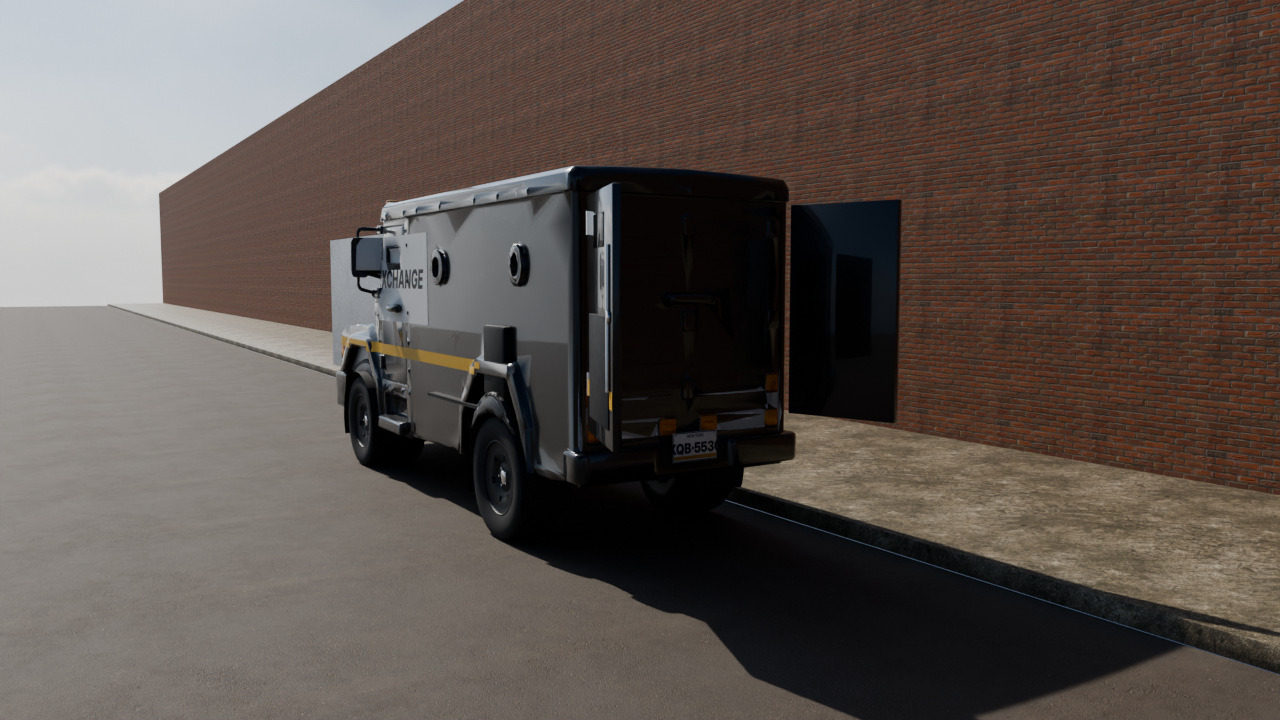
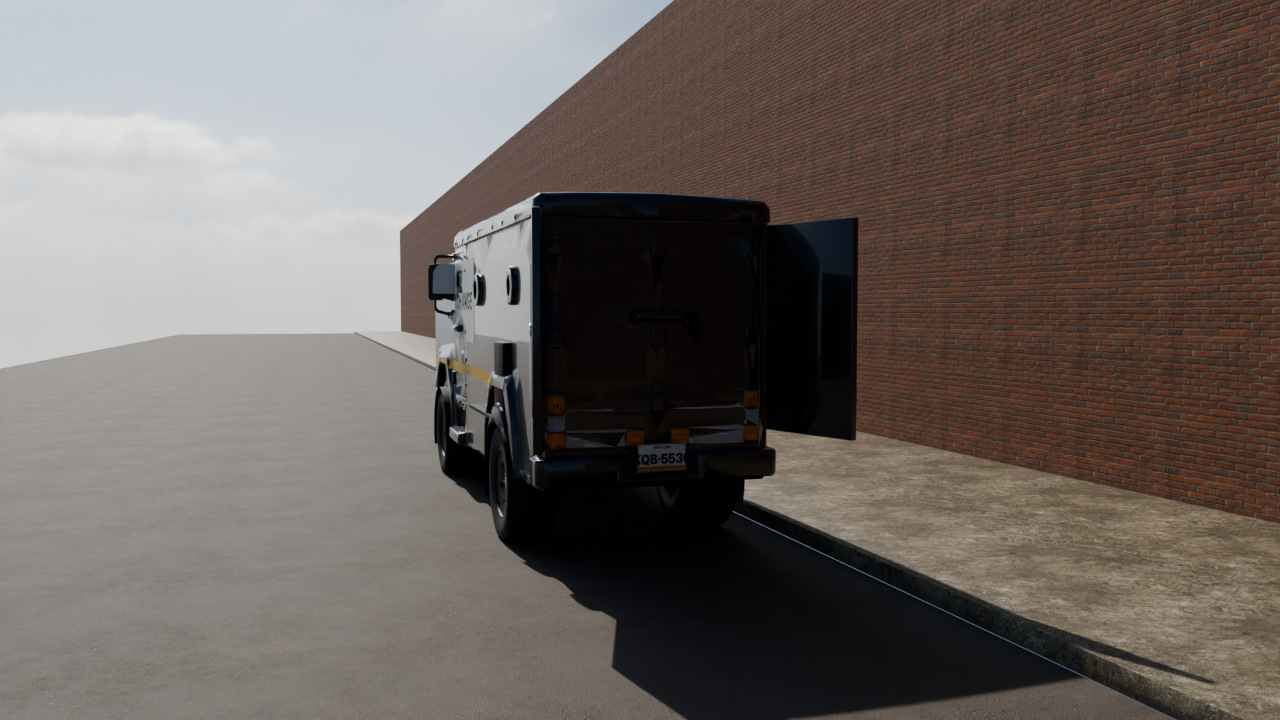
Work in progress: files from running agents
Claude-Session: https://claude.ai/code/session_01HkcHdD7NbyxwnFfuuSpZY4

diff --git a/art/blender/assets/vehicles.py b/art/blender/assets/vehicles.py
@@ -1593,7 +1593,7 @@ def ipx_door(ctx, right=True):
     finish(ob, 0.25)
     ctx.asset(ob, collision="none", cover_height=None, notes="IPX vault door leaf (%s), pivot on the hinge line at the "
               "outer edge, closed pose: outer face toward -X, leaf toward the centre seam. On the truck: hinge at "
-              "(-3.405, %+.3f, 1.05); opens %s108.9 degrees about Z in 1.1 s. No collision." %
+              "(-3.00, %+.3f, 1.05); opens %s108.9 degrees about Z in 1.1 s. No collision." %
               ("right, -Y side of the truck" if right else "left, +Y side", -0.89 * s, "+" if right else "-"),
               expect_size=(0.07, 0.89, 1.62))
     return ob
@@ -1613,6 +1613,9 @@ def _uv_card(ob, uv, s):
             uvl.data[li].uv = (u0 + (u1 - u0) * fu, v0 + (v1 - v0) * fv)
 
 
+IPX_DOOR_X = -3.00          # x of the rear door plane of the generated IPX body (measured on the fitted mesh)
+
+
 def v_ipx(ctx):
     P = make_parts(ctx, "IPXTruck")
     sp = P["spec"]
@@ -1622,8 +1625,9 @@ def v_ipx(ctx):
     galv = set_material("TS_Galvanised_Aged", slot="MI_Galvanised_Aged")
     t_galv = (bake.read_set("TS_Galvanised_Aged") or {}).get("tile_m", 1.0)
     tail = -sp["size"][0] / 2
+    door_x = IPX_DOOR_X                         # the generated rear door plane (the step bumper reaches the tail)
     # vault lining 3.58 x 1.80 x 1.56, floor 1.02, open at the tail
-    x1 = tail + 0.06
+    x1 = door_x + 0.02
     lin = geo.box((3.58, 1.80, 1.56), bevel=0.0, name="IPX_Vault")
     geo.transform(lin, loc=(x1 + 1.79, 0, 1.02))
     bm = bmesh.new()
@@ -1816,7 +1820,7 @@ SPEC.update({
                      r=0.50, tw=0.30, rim=0.30, belt=1.75, cowl=2.30, bpillar=0.70, rear_x=0.60, floor=1.05,
                      cabin_rear=0.62, seat_x=1.00, wheel="steel", twin=True, rear_seat=False, plate="KQB5530",
                      paint="#17191d", hazard_slot=True, cover=2.86, tris=50000,
-                     drop=lambda c, n, cls: ((c[:, 0] < -3.10) & (n[:, 0] < -0.5) & (c[:, 2] > 1.03) & (c[:, 2] < 2.69)
+                     drop=lambda c, n, cls: ((c[:, 0] < -2.82) & (c[:, 2] > 1.03) & (c[:, 2] < 2.69)
                                             & (np.abs(c[:, 1]) < 0.95))),
     "Motorbike": dict(src="moto_hunyuan100k.glb", axis="X", nose=1, paint="navy", tris=90000),
 })
@@ -1983,7 +1987,7 @@ def on_preview(ctx, objs):
         L = 6.81 / 2
         for nm, s_ in (("SM_Vehicle_IPXTruck_Door", 1), ("SM_Vehicle_IPXTruck_Door_Left", -1)):
             d = assets[nm]
-            hx, hy = -L + 0.0, -0.89 * s_
+            hx, hy = IPX_DOOR_X, -0.89 * s_
             d.location = (-hx, 3.6 - hy, 1.05)
             d.rotation_euler = (0, 0, math.radians(180 + s_ * 108.9))
         render.cam_look((10.6, 1.0, 2.0), (3.0, 3.55, 1.6), lens=28)
